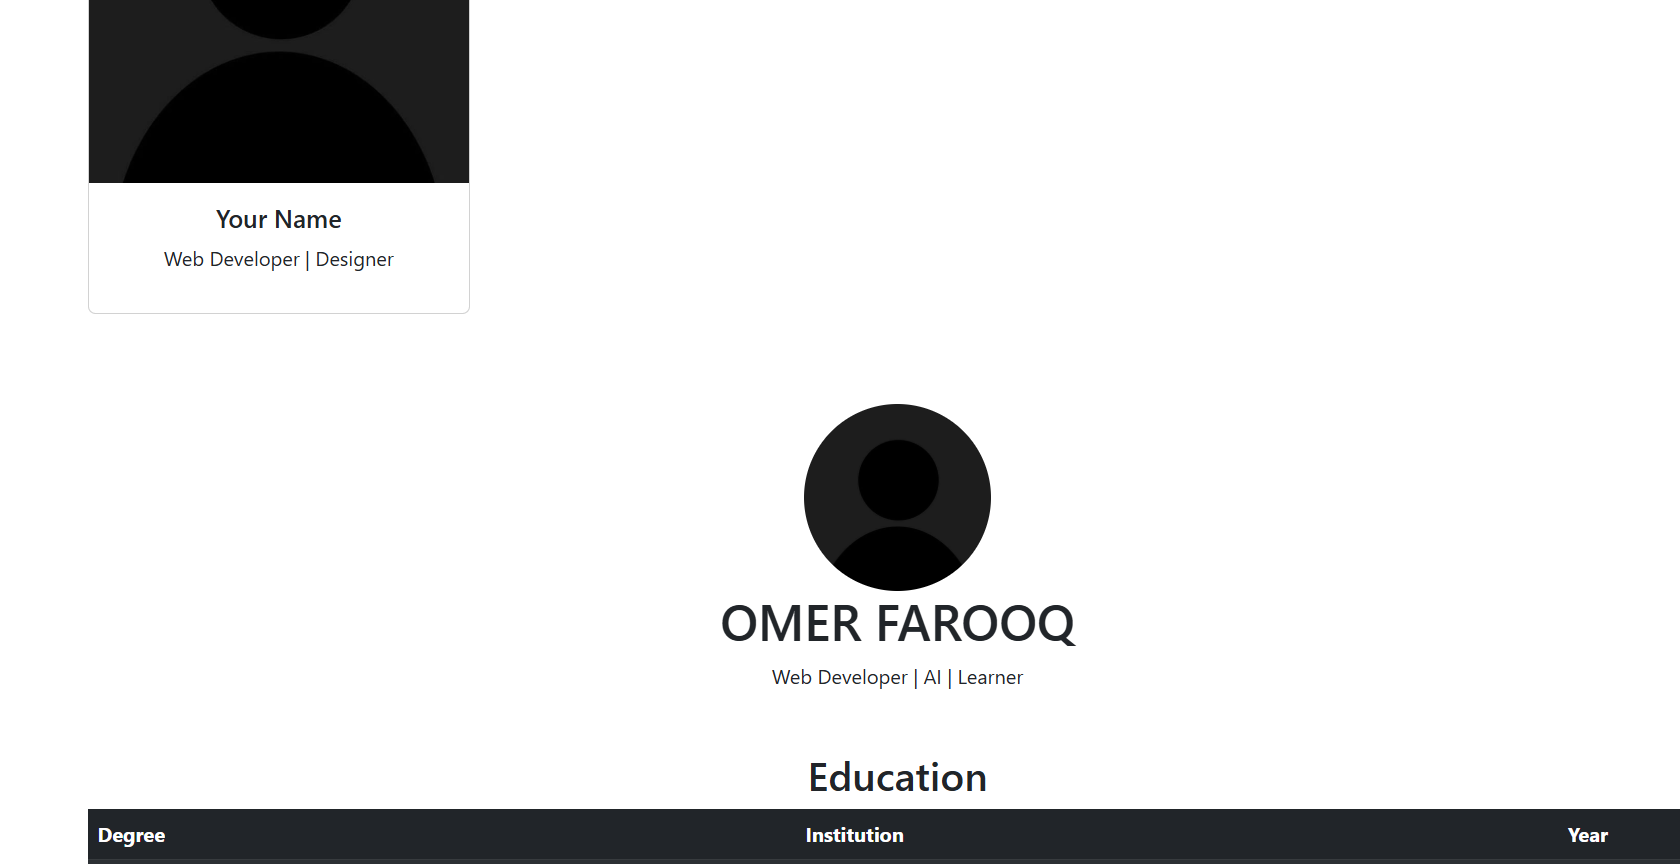
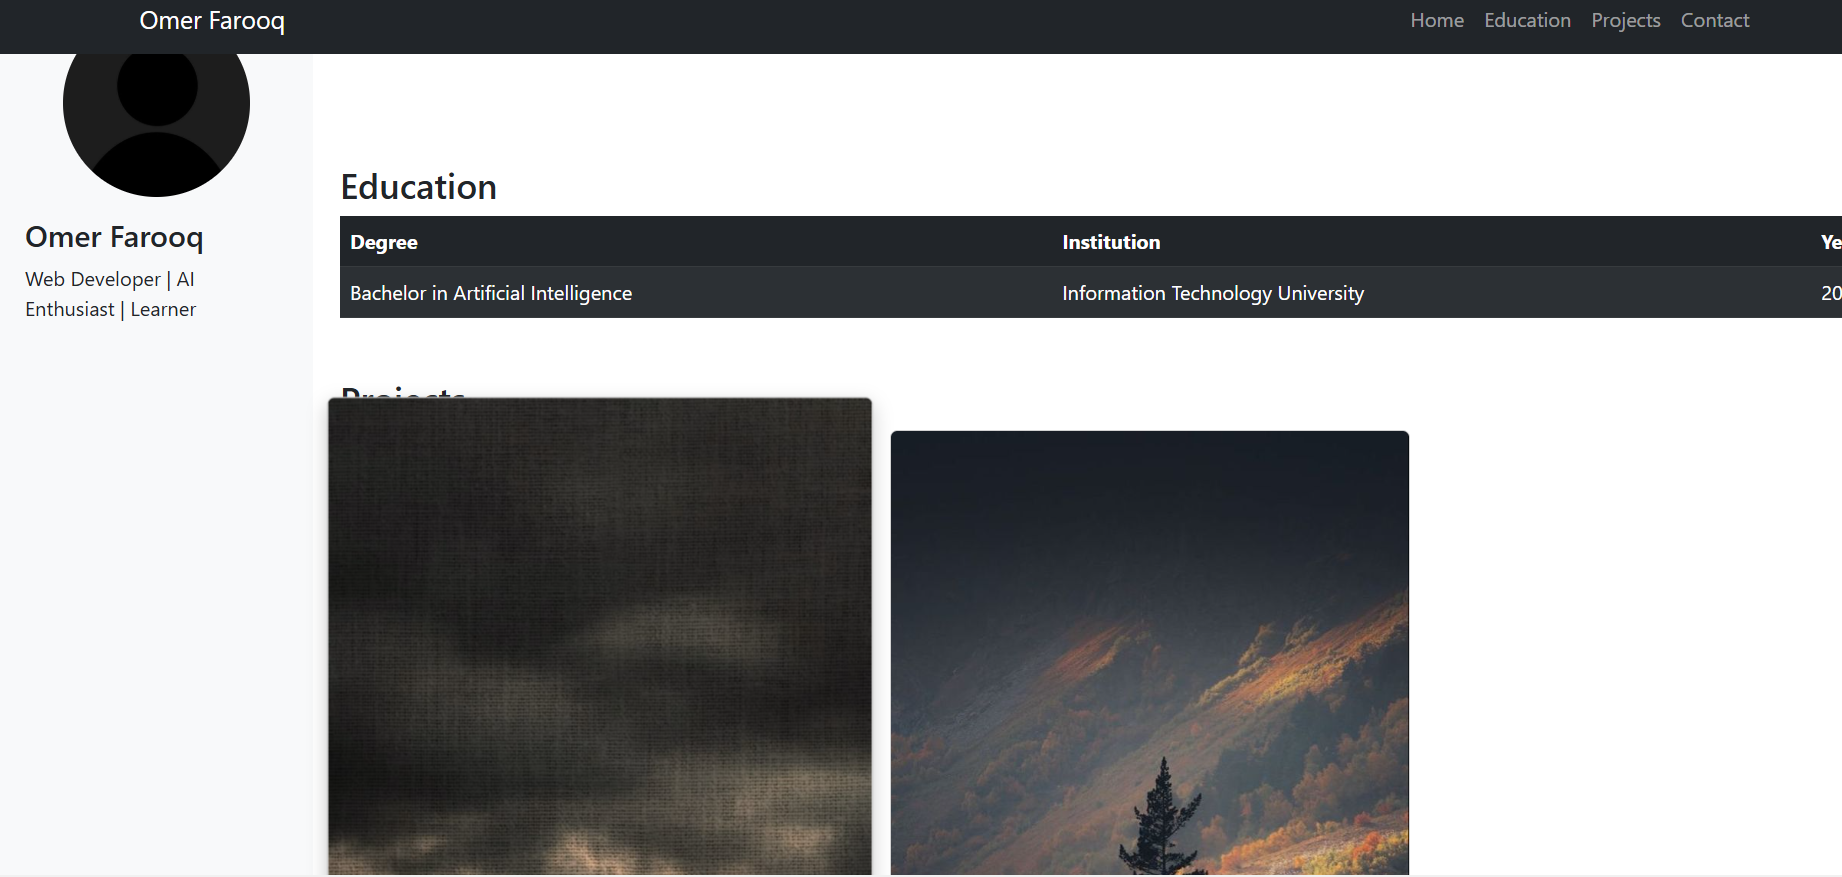
Updated portfolio with new components

diff --git a/index.html b/index.html
@@ -3,15 +3,59 @@
 <head>
     <meta charset="UTF-8">
     <meta name="viewport" content="width=device-width, initial-scale=1.0">
-    <title>My Portfolio</title>
+    <title>Omer Farooq - Portfolio</title>
+    <!-- Bootstrap CSS -->
     <link href="https://cdn.jsdelivr.net/npm/bootstrap@5.3.0/dist/css/bootstrap.min.css" rel="stylesheet">
     <link rel="stylesheet" href="styles.css">
+
+    <style>
+        /* MultiClass Selector */
+        .text-primary.bold {
+            font-weight: 700;
+        }
+
+        /* Combinator Selector (Child) */
+        ul > li {
+            list-style-type: none;
+        }
+
+        .profile-img {
+            width: 150px;
+            height: 150px;
+            border-radius: 50%;
+            display: block;
+            margin: 0 auto;
+        }
+
+        /* Sidebar */
+        .sidebar {
+            background: #f8f9fa;
+            padding: 20px;
+            height: 100%;
+            position: fixed;
+            top: 0;
+            left: 0;
+            width: 250px;
+            overflow-y: auto;
+        }
+
+        /* Main Content */
+        .content {
+            margin-left: 260px;
+        }
+
+        /* Progress Bar */
+        .progress {
+            height: 10px;
+        }
+    </style>
 </head>
 <body>
-    
-    <nav class="navbar navbar-expand-lg navbar-dark bg-primary">
+
+    <!-- Navbar -->
+    <nav class="navbar navbar-expand-lg navbar-dark bg-dark fixed-top">
         <div class="container">
-            <a class="navbar-brand" href="#">My Portfolio</a>
+            <a class="navbar-brand" href="#">Omer Farooq</a>
             <button class="navbar-toggler" type="button" data-bs-toggle="collapse" data-bs-target="#navbarNav">
                 <span class="navbar-toggler-icon"></span>
             </button>
@@ -26,108 +70,135 @@
         </div>
     </nav>
 
-    <div class="container mt-4">
-        <div class="row">
-            <aside class="col-lg-3 mb-4">
-                <div class="card">
-                    <img src="assests/images/profile.jpg" alt="Profile Picture">
-                    <div class="card-body text-center">
-                        <h5>Your Name</h5>
-                        <p>Web Developer | Designer</p>
+    <!-- Sidebar (visible on larger screens) -->
+    <aside class="sidebar d-none d-lg-block">
+        <img src="assests/images/profile.jpg" alt="Profile Photo" class="profile-img mb-3">
+        <h4>Omer Farooq</h4>
+        <p>Web Developer | AI Enthusiast | Learner</p>
+    </aside>
+
+    <main class="container content mt-5 pt-5">
+        <!-- Education Section -->
+        <section id="education" class="my-5">
+            <h3>Education</h3>
+            <table class="table table-striped table-dark">
+                <thead>
+                    <tr>
+                        <th>Degree</th>
+                        <th>Institution</th>
+                        <th>Year</th>
+                    </tr>
+                </thead>
+                <tbody>
+                    <tr>
+                        <td>Bachelor in Artificial Intelligence</td>
+                        <td>Information Technology University</td>
+                        <td>2023</td>
+                    </tr>
+                </tbody>
+            </table>
+        </section>
+
+        <!-- Projects Section -->
+        <section id="projects" class="my-5">
+            <h3>Projects</h3>
+            <div class="row">
+                <div class="col-md-4">
+                    <div class="card">
+                        <img src="assests/images/project1.jpg" class="card-img-top" alt="Project 1">
+                        <div class="card-body">
+                            <h5 class="card-title">Portfolio Website</h5>
+                            <p class="card-text">Built a personal portfolio using Bootstrap.</p>
+                            <button class="btn btn-primary">View Details</button>
+                        </div>
                     </div>
                 </div>
-            </aside>
-
-            <main class="col-lg-9">
-                <h2>Welcome to My Portfolio</h2>
-                <p>My name is OMER FAROOQ. I am a student of AI at ITU.</p>
-            </main>
-        </div>
-    </div>
-
-    <section id="home" class="container text-center my-5">
-        <img src="assests/images/profile.jpg" class="rounded-circle img-fluid" alt="Profile Picture" width="150">
-        <h1>OMER FAROOQ</h1>
-        <p>Web Developer | AI | Learner</p>
-    </section>
-
-    <section id="education" class="container my-5">
-        <h2 class="text-center">Education</h2>
-        <table class="table table-striped table-dark">
-            <thead>
-                <tr>
-                    <th>Degree</th>
-                    <th>Institution</th>
-                    <th>Year</th>
-                </tr>
-            </thead>
-            <tbody>
-                <tr>
-                    <td>Bachelor in Artificial Intelligence</td>
-                    <td>Information Technology University</td>
-                    <td>2023</td>
-                </tr>
-            </tbody>
-        </table>
-    </section>
-
-    <section id="projects" class="container my-5">
-        <h2 class="text-center">Projects</h2>
-        <div class="row">
-            <div class="col-md-4">
-                <div class="card">
-                    <img src="assests/images/project1.jpg" class="card-img-top" alt="Project 1">
-                    <div class="card-body">
-                        <h5 class="card-title">Project 1</h5>
-                        <p class="card-text">Making a portfolio website</p>
+                
+                <div class="col-md-4">
+                    <div class="card">
+                        <img src="assests/images/project2.jpg" class="card-img-top" alt="Project 2">
+                        <div class="card-body">
+                            <h5 class="card-title">AI Chatbot</h5>
+                            <p class="card-text">game developing</p>
+                            <button class="btn btn-primary">View Details</button>
+                        </div>
                     </div>
                 </div>
             </div>
-        </div>
-    </section>
+        </section>
 
-    <section id="skills" class="container my-5">
-        <h2 class="text-center">Skills</h2>
-        <div class="mb-3">
-            <label class="form-label">HTML</label>
-            <div class="progress">
-                <div class="progress-bar bg-success" style="width: 85%;">85%</div>
+        <!-- Skills Section -->
+        <section id="skills" class="my-5">
+            <h3>Skills</h3>
+            <div class="card p-3">
+                <h5>HTML</h5>
+                <div class="progress">
+                    <div class="progress-bar bg-primary" style="width: 85%"></div>
+                </div>
+
+                <h5 class="mt-3">CSS</h5>
+                <div class="progress">
+                    <div class="progress-bar bg-success" style="width: 78%"></div>
+                </div>
+
+                <h5 class="mt-3">JavaScript</h5>
+                <div class="progress">
+                    <div class="progress-bar bg-warning" style="width: 60%"></div>
+                </div>
             </div>
-        </div>
-        <div class="mb-3">
-            <label class="form-label">CSS</label>
-            <div class="progress">
-                <div class="progress-bar bg-info" style="width: 78%;">78%</div>
+        </section>
+
+        <!-- Contact Section -->
+        <section id="contact" class="my-5">
+            <h3>Contact Me</h3>
+            <form id="contact-form">
+                <div class="mb-3">
+                    <label for="name" class="form-label">Name</label>
+                    <input type="text" class="form-control" id="name" required>
+                </div>
+                <div class="mb-3">
+                    <label for="email" class="form-label">Email</label>
+                    <input type="email" class="form-control" id="email" required>
+                </div>
+                <div class="mb-3">
+                    <label for="message" class="form-label">Message</label>
+                    <textarea class="form-control" id="message" rows="3" required></textarea>
+                </div>
+                <button type="submit" class="btn btn-primary w-100">Send</button>
+            </form>
+            <div id="alert-box" class="alert alert-success d-none mt-3">
+                Message sent successfully!
             </div>
-        </div>
-        <div class="mb-3">
-            <label class="form-label">JavaScript</label>
-            <div class="progress">
-                <div class="progress-bar bg-warning" style="width: 60%;">60%</div>
-            </div>
-        </div>
-    </section>
+        </section>
+    </main>
 
-    <form id="contact-form" action="#alert-box">
-        <div class="mb-3">
-            <label for="name" class="form-label">Name</label>
-            <input type="text" class="form-control" id="name" required>
-        </div>
-        <div class="mb-3">
-            <label for="email" class="form-label">Email</label>
-            <input type="email" class="form-control" id="email" required>
-        </div>
-        <div class="mb-3">
-            <label for="message" class="form-label">Message</label>
-            <textarea class="form-control" id="message" rows="3" required></textarea>
-        </div>
-        <button type="submit" class="btn btn-primary">Send</button>
-    </form>
+    <footer class="text-center py-3 bg-light">
+        <p>&copy; 2025 Omer Farooq. All rights reserved.</p>
+    </footer>
 
-    <div id="alert-box" class="alert alert-success d-none">
-        Message sent successfully!
-    </div>
-
+    <!-- Bootstrap JS -->
     <script src="https://cdn.jsdelivr.net/npm/bootstrap@5.3.0/dist/js/bootstrap.bundle.min.js"></script>
+
+    <script>
+        // Smooth scrolling for navbar links
+        document.querySelectorAll('a.nav-link').forEach(anchor => {
+            anchor.addEventListener('click', function(event) {
+                event.preventDefault();
+                document.querySelector(this.getAttribute('href')).scrollIntoView({
+                    behavior: 'smooth'
+                });
+            });
+        });
+
+        // Contact Form Submission
+        document.getElementById("contact-form").addEventListener("submit", function(event) {
+            event.preventDefault();
+            document.getElementById("alert-box").classList.remove("d-none");
+            setTimeout(() => {
+                document.getElementById("alert-box").classList.add("d-none");
+            }, 3000);
+        });
+    </script>
+
 </body>
 </html>

diff --git a/styles.css b/styles.css
@@ -1,28 +1,42 @@
-#home img {
-    transition: transform 0.3s ease-in-out;
-}
-#home img:hover {
-    transform: scale(1.1) rotate(5deg);
+/* Image Hover Effect */
+.profile-img {
+  transition: transform 0.3s ease-in-out;
 }
 
+.profile-img:hover {
+  transform: scale(1.1) rotate(5deg);
+}
+
+/* Fade-in Animation */
 @keyframes fadeIn {
-    from { opacity: 0; transform: translateY(30px); }
-    to { opacity: 1; transform: translateY(0); }
+  from {
+    opacity: 0;
+    transform: translateY(30px);
+  }
+  to {
+    opacity: 1;
+    transform: translateY(0);
+  }
 }
+
 section {
-    animation: fadeIn 1s ease-in-out;
+  animation: fadeIn 1s ease-in-out;
 }
 
+/* Button Hover Effect */
 .btn-primary:hover {
-    background-color: #0056b3;
-    transform: scale(1.05);
-}
-.card:hover {
-    transform: scale(1.05);
-    transition: 0.3s ease-in-out;
-    box-shadow: 0px 5px 15px rgba(0, 0, 0, 0.2);
+  background-color: #0056b3;
+  transform: scale(1.05);
 }
 
+/* Card Hover Effect */
+.card:hover {
+  transform: scale(1.05);
+  transition: 0.3s ease-in-out;
+  box-shadow: 0px 5px 15px rgba(0, 0, 0, 0.2);
+}
+
+/* Alert Box Visibility */
 #alert-box:target {
-    display: block !important;
+  display: block !important;
 }
